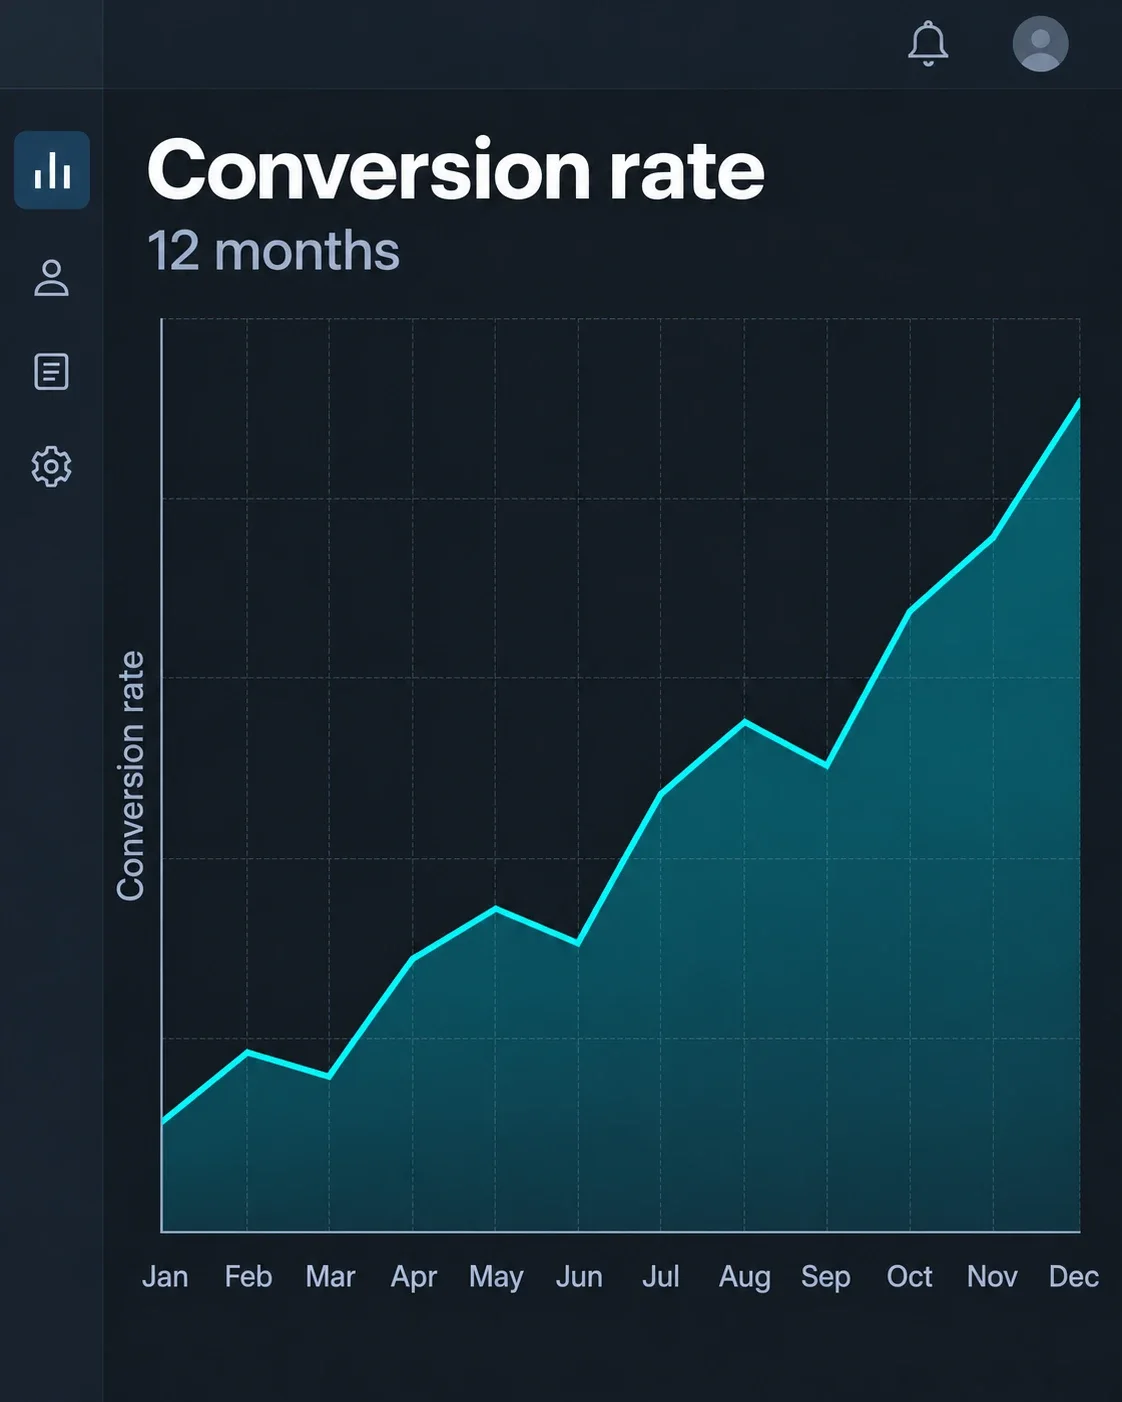
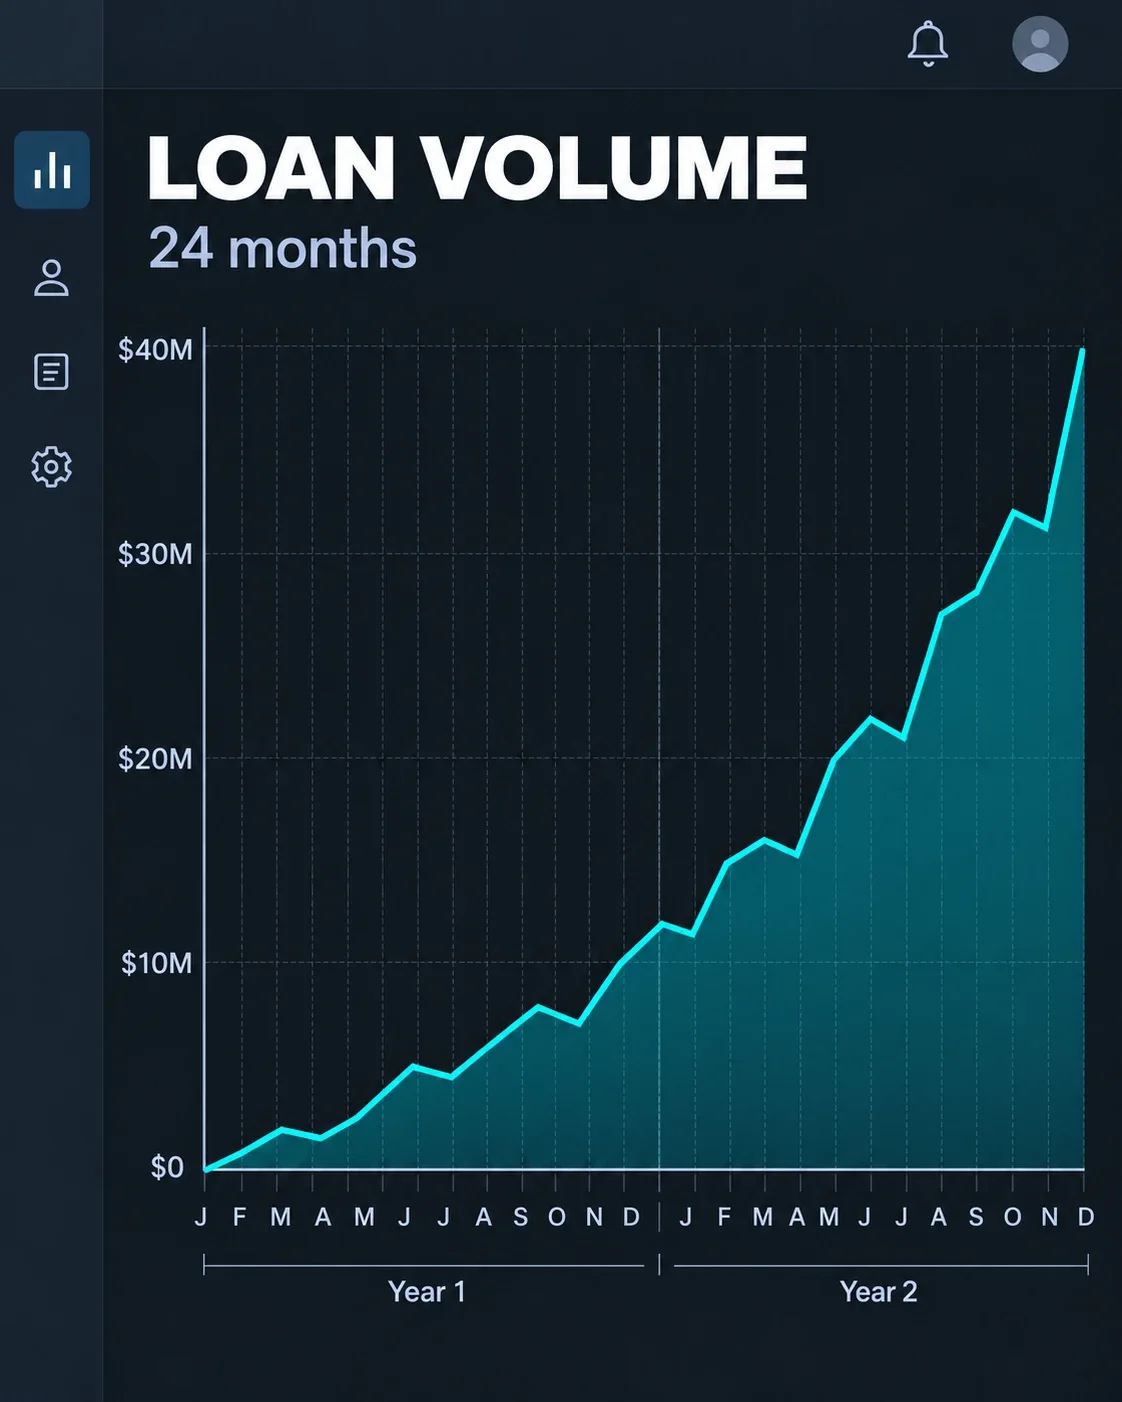
Lendio part 2: coding photo, loan volume dashboard, disclaimers (#36)
* Lendio part 2 learnings: over-the-shoulder coding image replaces the team photo

Claude-Session: https://claude.ai/code/session_018mvCbAc9FabeCdeT8bx61E

* Lendio part 2 learnings: loan volume dashboard replaces conversion rate

Claude-Session: https://claude.ai/code/session_018mvCbAc9FabeCdeT8bx61E

* Lendio part 2: one shared AI-likeness disclaimer under all photo groups

Claude-Session: https://claude.ai/code/session_018mvCbAc9FabeCdeT8bx61E

* Lendio part 2: plain AI-generated note where Adam's likeness isn't used (Charter, Approach)

Claude-Session: https://claude.ai/code/session_018mvCbAc9FabeCdeT8bx61E

---------

diff --git a/public/bio/lendio2/index.html b/public/bio/lendio2/index.html
@@ -80,7 +80,7 @@
             <img src="/bio/photos/lendio2-sales.webp" alt="Lendio sales team members on headsets on a call with a loan applicant, with the Lendio logo on the glass behind them" width="900" height="1080" loading="lazy" style="object-position: 45% 40%">
           </figure>
         </div>
-          <p class="photo-note">Although Adam’s likeness is used, the rest of the people and product depicted here are AI-generated.</p>
+          <p class="photo-note">These images are AI-generated.</p>
         </div>
       </div>
     </section>
@@ -101,7 +101,7 @@
             <img src="/bio/photos/lendio2-team.webp" alt="A product team of four works around a table with laptops and notebooks, with app wireframes and sticky notes on the whiteboard behind them" width="1400" height="933" loading="lazy" style="object-position: 50% 50%">
           </figure>
         </div>
-          <p class="photo-note">Although Adam’s likeness is used, the rest of the people and product depicted here are AI-generated.</p>
+          <p class="photo-note">These images are AI-generated.</p>
         </div>
       </div>
     </section>
@@ -138,7 +138,7 @@
             <figcaption><span class="ph-tag">Photo placeholder</span>The product team shipping</figcaption>
           </figure>
         </div>
-          <p class="photo-note">Although Adam’s likeness is used, the rest of the people and product depicted here are AI-generated.</p>
+          <p class="photo-note">Although Adam’s likeness has been used, the rest is AI generated.</p>
         </div>
       </div>
     </section>
@@ -163,13 +163,13 @@
             <img src="/bio/photos/lendio2-learn-stage.webp" alt="Adam Michaelson at a podium with a MacBook, pointing at a large screen showing a dashboard, with an audience in the foreground and a window view of Utah County behind" width="1400" height="933" loading="lazy" style="object-position: 50% 50%">
           </figure>
           <figure class="photo ph-2">
-            <img src="/bio/photos/lendio2-learn-team.webp" alt="Five colleagues gathered around a laptop in a bright office, sharing a quiet moment of satisfaction" width="1000" height="1500" loading="lazy" style="object-position: 50% 40%">
+            <img src="/bio/photos/lendio2-learn-coding.webp" alt="Over Adam Michaelson’s shoulder as he types on a MacBook Air showing ChatGPT, in front of a curved monitor showing Antigravity, Claude Code and a GitHub pull request, in an open coworking space" width="1024" height="1536" loading="lazy" style="object-position: 50% 25%">
           </figure>
           <figure class="photo ph-3">
-            <img src="/bio/photos/lendio2-learn-dashboard.webp?v=2" alt="A dark dashboard showing a conversion rate line chart rising from January to December" width="1122" height="1402" loading="lazy" style="object-position: 50% 50%">
+            <img src="/bio/photos/lendio2-learn-dashboard.webp?v=3" alt="A dark dashboard titled Loan Volume showing monthly loan volume growing unevenly from $0 to $40 million over 24 months" width="1122" height="1402" loading="lazy" style="object-position: 50% 50%">
           </figure>
         </div>
-          <p class="photo-note">Although Adam’s likeness is used, the rest of the people and product depicted here are AI-generated.</p>
+          <p class="photo-note">Although Adam’s likeness has been used, the rest is AI generated.</p>
         </div>
       </div>
     </section>
